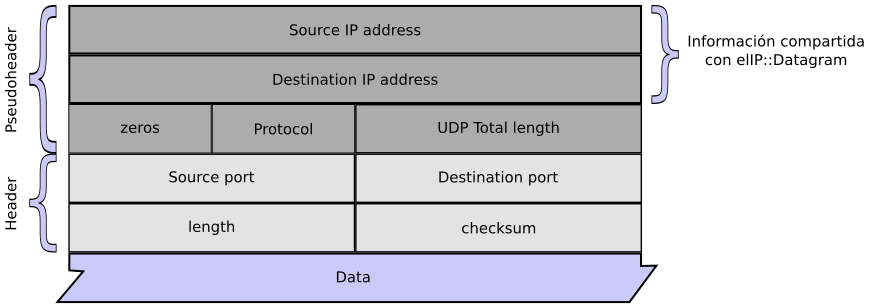
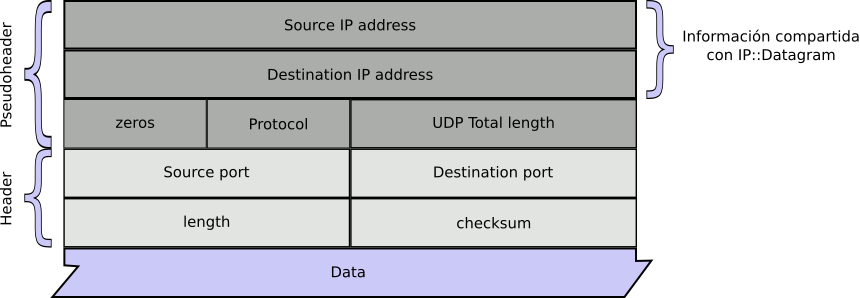
(Closes #5) - correctly modified packet names

diff --git a/udp_protocol.cpp b/udp_protocol.cpp
@@ -44,8 +44,8 @@ void udp_protocol::dinternal(double t) {
   }
 
   if (!lower_layer_data_in.empty()) {
-    udp::Datagram d = lower_layer_data_in.front();
-    this->processDatagram(d,t);
+    udp::Segment d = lower_layer_data_in.front();
+    this->processSegment(d,t);
     lower_layer_data_in.pop();
     next_internal = delivering_time;
     return;
@@ -64,15 +64,15 @@ void udp_protocol::exit() {}
 
 /*********** Main helpers ************************/
 
-void udp_protocol::processDatagram(const udp::Datagram& d, double t) {
+void udp_protocol::processSegment(const udp::Segment& d, double t) {
   app::Packet p(d.payload);
 
-  // Datagrams with incorrect dest_ip are thrown away
+  // Segments with incorrect dest_ip are thrown away
   ushort local_port = d.header.dest_port;
   ushort remote_port = d.header.src_port;
   IPv4 local_ip = d.psd_header.dest_ip;
   IPv4 remote_ip = d.psd_header.src_ip;
-  logger.debug("process Datagram: ");
+  logger.debug("process Segment: ");
   logger.debug("local_port: " + std::to_string(local_port));
   logger.debug("remote_port: " + std::to_string(remote_port));
   logger.debug("local_ip: " + local_ip.as_string());
@@ -88,7 +88,7 @@ void udp_protocol::processDatagram(const udp::Datagram& d, double t) {
       s.stopReading();
     }
   } else {
-    logger.info("discarted datagram.");
+    logger.info("discarted segment.");
   }
 }
 
@@ -296,7 +296,7 @@ void udp_protocol::processNtwCtrl(const ip::Control &c) {
 // TODO: merge sendData and sendDataTo equal codes to a single function send.
 void udp_protocol::sendData(const app::Packet& payload, const udp::Socket& s, double t) {
 
-  udp::Datagram dat;
+  udp::Segment dat;
   // pseudo header fields
   dat.psd_header.src_ip = s.local_ip;
   dat.psd_header.dest_ip = s.remote_ip;
@@ -317,7 +317,7 @@ void udp_protocol::sendData(const app::Packet& payload, const udp::Socket& s, do
 
 void udp_protocol::sendDataTo(const app::Packet& payload, const udp::Socket& s, ushort remote_port, IPv4 remote_ip, double t) {
 
-  udp::Datagram dat;
+  udp::Segment dat;
   
   // pseudo header fields
   dat.psd_header.src_ip = s.local_ip;
@@ -337,14 +337,14 @@ void udp_protocol::sendDataTo(const app::Packet& payload, const udp::Socket& s, 
   lower_layer_data_out.push(dat, 2);
 }
 
-bool udp_protocol::verifyChecksum(udp::Datagram d) const {
+bool udp_protocol::verifyChecksum(udp::Segment d) const {
   logger.debug("Header checksum: " + std::to_string(d.header.checksum));
   ushort calculated_checksum = ~calculateChecksum(d);
   logger.debug("Calculated checksum: " + std::to_string(calculated_checksum));
   return calculated_checksum+d.header.checksum == 0xFFFF;
 }
 
-ushort udp_protocol::calculateChecksum(udp::Datagram d) const {
+ushort udp_protocol::calculateChecksum(udp::Segment d) const {
 
   const char* header_ptr = d.headers_c_str();
   ushort count = d.headers_size();

diff --git a/ip_host_protocol.cpp b/ip_host_protocol.cpp
@@ -11,19 +11,19 @@ void ip_host_protocol::dinternal(double t) {
   }
 
   if (!higher_layer_data_in.empty()) {
-    udp::Datagram d = higher_layer_data_in.front();
-    this->processUDPDatagram(d);
+    udp::Segment d = higher_layer_data_in.front();
+    this->processUDPSegment(d);
     higher_layer_data_in.pop();
-    next_internal = process_udp_datagram_time;
+    next_internal = process_udp_segment_time;
     return;
   }
 
   if (!lower_layer_data_in.empty()) {
-    logger.debug("Process ip Packet input.");
-    ip::Packet p = lower_layer_data_in.front();
-    this->processIPPacket(p);
+    logger.debug("Process ip Datagram input.");
+    ip::Datagram p = lower_layer_data_in.front();
+    this->processIPDatagram(p);
     lower_layer_data_in.pop();
-    next_internal = process_ip_packet_time;
+    next_internal = process_ip_datagram_time;
     return;
   }
 }
@@ -32,7 +32,7 @@ void ip_host_protocol::dinternal(double t) {
 /********* HELPER METHODS **********/
 /***********************************/
 
-void ip_host_protocol::processIPPacket(ip::Packet p) {
+void ip_host_protocol::processIPDatagram(ip::Datagram p) {
   IPv4 dest_ip = p.header.dest_ip; 
   Event o;
 
@@ -48,13 +48,13 @@ void ip_host_protocol::processIPPacket(ip::Packet p) {
     return;
   }
 
-  // Delivering datagram to the next top layer
+  // Delivering segment to the next top layer
   higher_layer_data_out.push(p.data,0);
   return;
 }
 
-void ip_host_protocol::processUDPDatagram(udp::Datagram d) {
-  ip::Packet p;
+void ip_host_protocol::processUDPSegment(udp::Segment d) {
+  ip::Datagram p;
   p.data = d;
   // version 0100 (IPv4) IHL 0101 (5 no option field)
   // DSCP 0000 (currently not used) ECN 0000 (currently not used)
@@ -67,5 +67,5 @@ void ip_host_protocol::processUDPDatagram(udp::Datagram d) {
   p.header.dest_ip = d.psd_header.dest_ip;
   p.header.header_checksum = this->calculateChecksum(p.header);
 
-  this->routeIPPacket(p);
+  this->routeIPDatagram(p);
 }

diff --git a/ip_protocol.cpp b/ip_protocol.cpp
@@ -87,7 +87,7 @@ void ip_protocol::exit() {}
 /********* HELPER METHODS **********/
 /***********************************/
 
-void ip_protocol::routeIPPacket(ip::Packet p) {
+void ip_protocol::routeIPDatagram(ip::Datagram p) {
   ip::Routing_entry route;
   IPv4 dest_ip = p.header.dest_ip; 
 
@@ -164,13 +164,13 @@ bool ip_protocol::isBestRoute(ip::Routing_entry current, ip::Routing_entry old) 
   return (longest == current.netmask) || (current.metric < old.metric);
 }
 
-void ip_protocol::arp(ip::Packet packet, IPv4 nexthop) {
+void ip_protocol::arp(ip::Datagram packet, IPv4 nexthop) {
   
   logger.debug("Adding packet to wait ARP for nexthop: " + nexthop.as_string());
   if (arp_waiting_packets.find(nexthop) != arp_waiting_packets.end()) {
     arp_waiting_packets.at(nexthop).push(packet);
   } else {
-    std::queue<ip::Packet> q;
+    std::queue<ip::Datagram> q;
     q.push(packet);
     arp_waiting_packets.insert(std::make_pair(nexthop, q));
   }
@@ -191,7 +191,7 @@ void ip_protocol::arp(ip::Packet packet, IPv4 nexthop) {
 }
 
 void ip_protocol::processLinkControl(link::Control control) {
-  std::queue<ip::Packet> packets_to_send;
+  std::queue<ip::Datagram> packets_to_send;
   link::Control m;
 
   switch(control.request) {
@@ -216,7 +216,7 @@ void ip_protocol::processLinkControl(link::Control control) {
     break;
   case link::Ctrl::SEND_PACKET_FAILED:
     logger.info("link::Ctrl::SEND_PACKET_FAILED");
-    this->routeIPPacket(control.packet); // send again, this sends a new ARP QUERY
+    this->routeIPDatagram(control.packet); // send again, this sends a new ARP QUERY
     break;
   default:
     logger.error("Bad link control request.");

diff --git a/udp_protocol.h b/udp_protocol.h
@@ -14,7 +14,7 @@
 
 // app layer send packet throw the control channel (port 1) using udp::Control structs
 // udp layer deliver app:Packet throw the data channel (part 0) using udp::Multiplexed_packet
-class udp_protocol: public Layer<udp::Multiplexed_packet, udp::Control, udp::Datagram, ip::Control> {
+class udp_protocol: public Layer<udp::Multiplexed_packet, udp::Control, udp::Segment, ip::Control> {
 
   // TODO: change map<port,map<ip,socket>> to map<ip,map<port,socket>>
   // is most likely to have one or a lower amount of IPs than ports.
@@ -27,12 +27,12 @@ class udp_protocol: public Layer<udp::Multiplexed_packet, udp::Control, udp::Dat
   double app_ctrl_time = 0.01; // takes 1 milliseconds to bind a socket
 
   /************ Helper methods **************/
-  void processDatagram(const udp::Datagram&, double );
+  void processSegment(const udp::Segment&, double );
   void processUDPCtrl(const udp::Control&, double);
   void sendData(const app::Packet&, const udp::Socket&, double);
   void sendDataTo(const app::Packet&, const udp::Socket&, ushort, IPv4, double);
-  bool verifyChecksum(udp::Datagram d) const;
-  ushort calculateChecksum(udp::Datagram d) const;
+  bool verifyChecksum(udp::Segment d) const;
+  ushort calculateChecksum(udp::Segment d) const;
   void processNtwCtrl(const ip::Control&);
   bool existentIP(IPv4);
   bool existentSocket(ushort, IPv4);

diff --git a/link_protocol.cpp b/link_protocol.cpp
@@ -185,7 +185,7 @@ void link_protocol::swpDeliver(link::Frame frame) {
     
     while (!SWPState.recvQ.empty() && (SWPState.LFR+1) == SWPState.recvQ.front().SeqNum) {
       logger.info("Deliver frame with SeqNum: " + std::to_string(SWPState.recvQ.front().SeqNum));
-      higher_layer_data_out.push(this->getIpPacket(frame), 0);
+      higher_layer_data_out.push(this->getIpDatagram(frame), 0);
       ++SWPState.LFR;
       SWPState.recvQ.pop_front();
     }
@@ -333,7 +333,7 @@ bool link_protocol::validMAC(MAC MAC_destination) {
           MAC_destination == BROADCAST_MAC_ADDRESS;
 }
 
-link::Frame link_protocol::wrapInFrame(const ip::Packet& packet, MAC dest_mac) {
+link::Frame link_protocol::wrapInFrame(const ip::Datagram& packet, MAC dest_mac) {
   link::Frame frame;
   frame.MAC_source = mac;
   frame.MAC_destination = dest_mac;
@@ -363,8 +363,8 @@ link::Frame link_protocol::wrapInFrame(const link::arp::Packet& packet, MAC dest
   return frame;
 }
 
-ip::Packet link_protocol::getIpPacket(const link::Frame& frame) {
-  ip::Packet packet;
+ip::Datagram link_protocol::getIpDatagram(const link::Frame& frame) {
+  ip::Datagram packet;
   memcpy(&packet,frame.payload,sizeof(packet));
   return packet;
 }

diff --git a/ip_protocol.h b/ip_protocol.h
@@ -16,28 +16,28 @@
  * 
  */
 
-class ip_protocol: public Layer<udp::Datagram, ip::Control, ip::Packet, link::Control> { 
+class ip_protocol: public Layer<udp::Segment, ip::Control, ip::Datagram, link::Control> { 
 
 protected:
 
   //ARP structures
   std::list<ip::Forwarding_entry> forwarding_table;
-  std::map<IPv4,std::queue<ip::Packet>> arp_waiting_packets;
+  std::map<IPv4,std::queue<ip::Datagram>> arp_waiting_packets;
 
   // IP structures
   std::list<IPv4> host_ips;
   std::list<ip::Routing_entry> routing_table;
 
   /********** TIMES ***************/
-  double process_udp_datagram_time = 0.001;
-  double process_ip_packet_time = 0.001;
+  double process_udp_segment_time = 0.001;
+  double process_ip_datagram_time = 0.001;
   double process_link_control_time = 0.001;
   double send_frame_time = 0.001;
 
   /********* Protected methods *********/
   // Class state modifiers
-  void routeIPPacket(ip::Packet);
-  void arp(ip::Packet, IPv4);
+  void routeIPDatagram(ip::Datagram);
+  void arp(ip::Datagram, IPv4);
   void processLinkControl(link::Control);
   // Class state non modifiers
   ushort calculateChecksum(ip::Header) const;

diff --git a/link_protocol.h b/link_protocol.h
@@ -5,7 +5,7 @@
 #include "layer.h"
 
 // there is no control type for lower layer physical protocols
-class link_protocol : public Layer<ip::Packet, link::Control, link::Frame, int> {
+class link_protocol : public Layer<ip::Datagram, link::Control, link::Frame, int> {
 
   std::list<link::arp::Entry> ARPTable;
   std::map<MAC,swp::State<link::Frame>> SWPTable;
@@ -45,10 +45,10 @@ class link_protocol : public Layer<ip::Packet, link::Control, link::Frame, int> 
   void processFrame(link::Frame frame);
   bool validMAC(MAC MAC_destination);
   void sendControl(link::Ctrl c, link::Control control);
-  link::Frame wrapInFrame(const ip::Packet& packet, MAC dest_mac);
+  link::Frame wrapInFrame(const ip::Datagram& packet, MAC dest_mac);
   link::Frame wrapInFrame(const link::arp::Packet& packet);
   link::Frame wrapInFrame(const link::arp::Packet& packet, MAC dest_mac);
-  ip::Packet getIpPacket(const link::Frame& frame);
+  ip::Datagram getIpDatagram(const link::Frame& frame);
   link::arp::Packet getARPPacket(const link::Frame& frame);
   unsigned long calculateCRC();
   bool verifyCRC(link::Frame frame);

diff --git a/ip_router_protocol.cpp b/ip_router_protocol.cpp
@@ -12,10 +12,10 @@ void ip_router_protocol::dinternal(double t) {
 
   if (!lower_layer_data_in.empty()) {
   	logger.debug("Process ip packet input.");
-    ip::Packet p = lower_layer_data_in.front();
-    this->processIPPacket(p);
+    ip::Datagram p = lower_layer_data_in.front();
+    this->processIPDatagram(p);
     lower_layer_data_in.pop();
-    next_internal = process_ip_packet_time;
+    next_internal = process_ip_datagram_time;
     return;
   }
 
@@ -27,7 +27,7 @@ void ip_router_protocol::dinternal(double t) {
 /********* HELPER METHODS **********/
 /***********************************/
 
-void ip_router_protocol::processIPPacket(ip::Packet p) {
+void ip_router_protocol::processIPDatagram(ip::Datagram p) {
   ip::Routing_entry route;
   IPv4 dest_ip = p.header.dest_ip; 
 
@@ -59,7 +59,7 @@ void ip_router_protocol::processIPPacket(ip::Packet p) {
   p.header.header_checksum = this->calculateChecksum(p.header);
 
   // Step 5-7
-  this->routeIPPacket(p);
+  this->routeIPDatagram(p);
 }
 
 bool ip_router_protocol::TTLisZero(ushort ttlp) const {

diff --git a/informe/informe.tex b/informe/informe.tex
@@ -464,7 +464,7 @@ Cada vez que el protocolo UDP recibe un mensaje de la capa inferior se realizan 
 
 \subsection{IP}
 
-El protocolo IP es el encargado del enrutamiento de los ip::Datagrams de un nodo (router, host) a otro con la finalidad de llegar al host destino. La estructura de datos ip::Datagram es la utilizada para encapsula los udp::Segments y cuenta con un campo \textit{header} de tipo ip::Header y un campo \textit{data} de tipo udp::Datagram, la Figura \ref{figure: ip header} muestra la estructura del tipo de datos ip::Header.  \\
+El protocolo IP es el encargado del enrutamiento de los ip::Datagrams de un nodo (router, host) a otro con la finalidad de llegar al host destino. La estructura de datos ip::Datagram es la utilizada para encapsula los udp::Segments y cuenta con un campo \textit{header} de tipo ip::Header y un campo \textit{data} de tipo udp::Segment, la Figura \ref{figure: ip header} muestra la estructura del tipo de datos ip::Header.  \\
 
 \begin{figure}[!htb]
     \centering

diff --git a/structures/udp.h b/structures/udp.h
@@ -72,13 +72,13 @@ namespace udp {
     }
   };
 
-  struct Datagram : abstract::Data {
+  struct Segment : abstract::Data {
     PseudoHeader psd_header;
     Header header;
     char payload[100]; // TODO: put the correct size
 
-    Datagram() {}
-    Datagram(const Datagram& o) {
+    Segment() {}
+    Segment(const Segment& o) {
       psd_header = o.psd_header;
       header = o.header;
       memcpy(payload,o.payload,sizeof(payload));
@@ -295,7 +295,7 @@ inline std::ostream& operator<<(std::ostream& os, const udp::PseudoHeader& ph) {
   return os;
 }
 
-inline std::ostream& operator<<(std::ostream& os, const udp::Datagram& d) {
+inline std::ostream& operator<<(std::ostream& os, const udp::Segment& d) {
   os << "psd_header: " << std::endl << d.psd_header << std::endl;
   os << "header: " << std::endl << d.header << std::endl;
   os << "payload: " << d.payload << std::endl;

diff --git a/structures/ip.h b/structures/ip.h
@@ -57,12 +57,12 @@ namespace ip {
     }
   };
 
-  struct Packet : abstract::Data {
+  struct Datagram : abstract::Data {
     Header header;
-    udp::Datagram data;
+    udp::Segment data;
 
-    Packet() {}
-    Packet(const Packet& other) {
+    Datagram() {}
+    Datagram(const Datagram& other) {
       header = other.header;
       data = other.data;
     }
@@ -182,7 +182,7 @@ inline std::ostream& operator<<(std::ostream& os, const ip::Header& h) {
   return os;
 }
 
-inline std::ostream& operator<<(std::ostream& os, const ip::Packet& p) {
+inline std::ostream& operator<<(std::ostream& os, const ip::Datagram& p) {
   os << "Header: " << std::endl << p.header << std::endl;
   os << "data: " << std::endl << p.data << std::endl;
   return os;

diff --git a/structures/link.h b/structures/link.h
@@ -104,7 +104,7 @@ namespace link {
       preamble = preamble | IS_ARP_PACKET;
     }
 
-    void setPayload(const ip::Packet& p) {
+    void setPayload(const ip::Datagram& p) {
       memcpy(payload,&p,sizeof(p));
       disableARPFlag();
     }
@@ -143,7 +143,7 @@ namespace link {
     Ctrl request;
     ushort interface;
     IPv4 ip;
-    ip::Packet packet;
+    ip::Datagram packet;
 
     Control() {}
     Control(const Control& other) {
